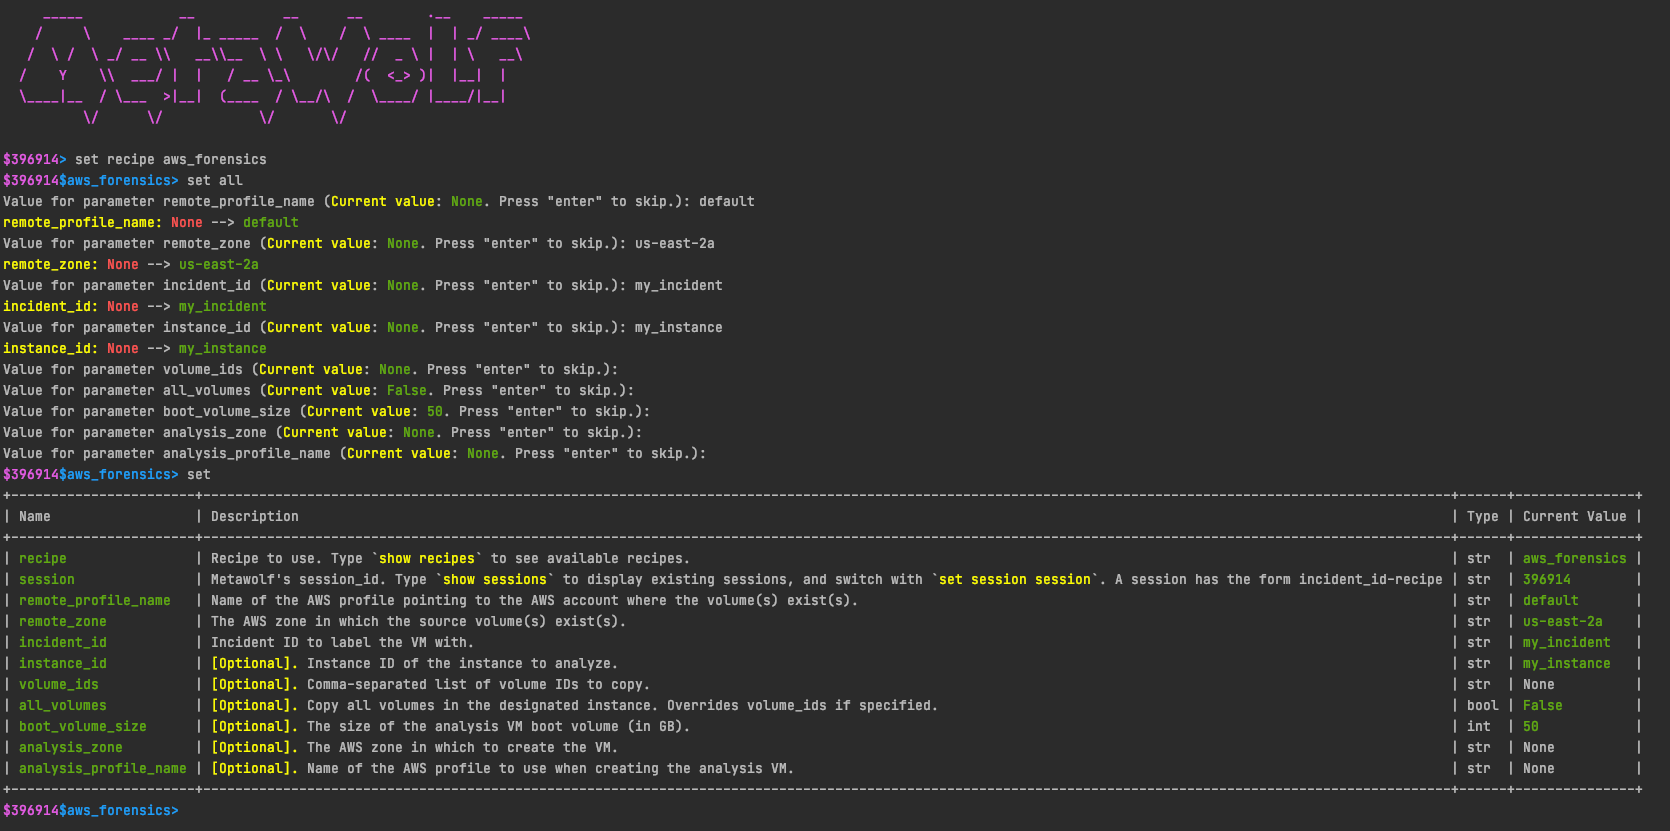
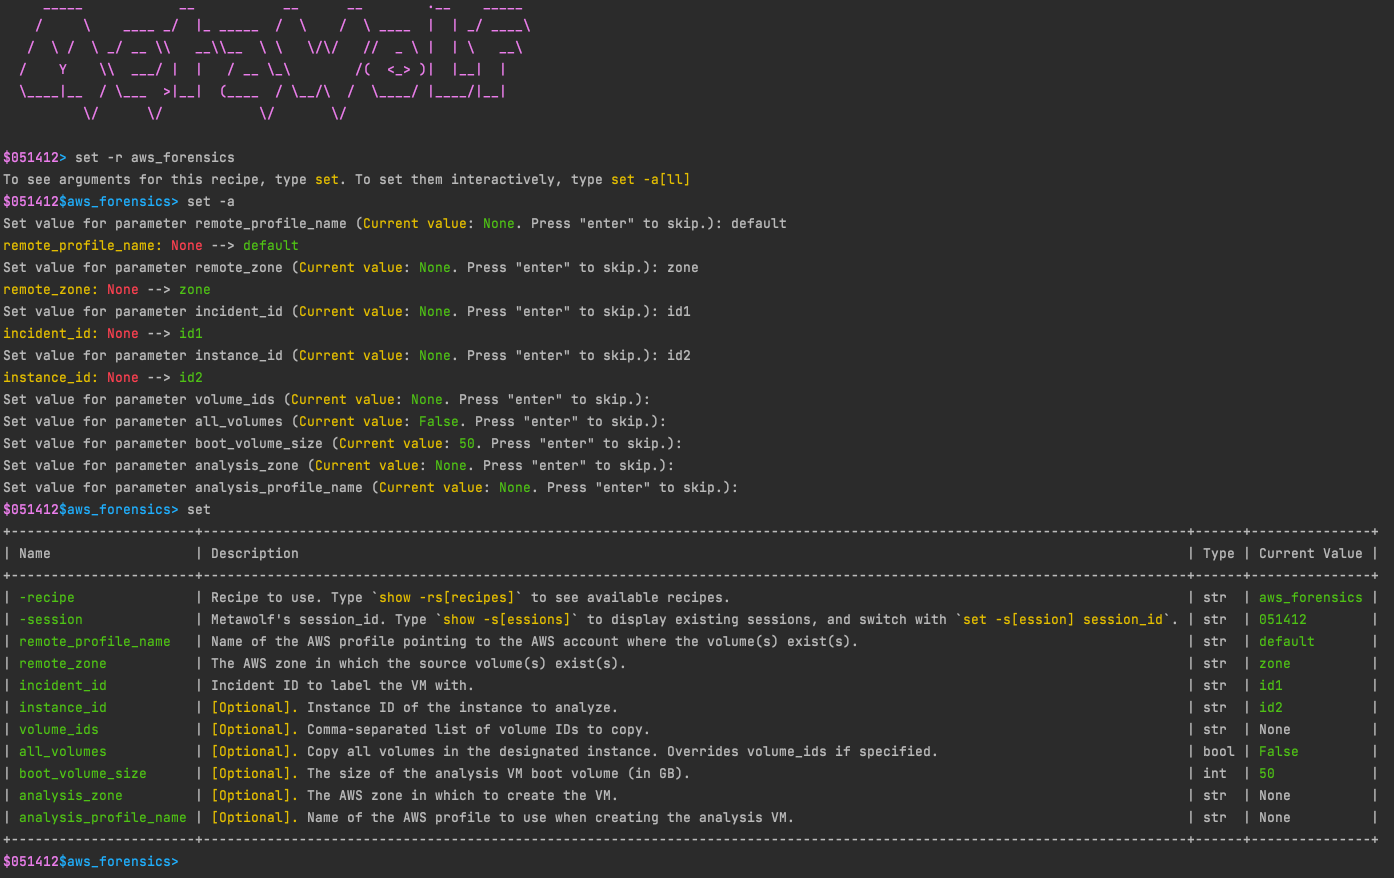
Update metawolf's doc

Changed region(s): [[0.0, 0.1504, 0.9871, 0.9928], [0.0, 0.0, 0.3393, 0.1504], [0.5244, 0.2407, 0.5552, 0.2708]]

diff --git a/dftimewolf/metawolf/metawolf.py b/dftimewolf/metawolf/metawolf.py
@@ -112,7 +112,7 @@ class Metawolf(cmd2.Cmd):
         RECIPE_NAME_IGNORED,
         ARG_RECIPE,
         'Recipe to use. Type `{0:s}` to see available recipes.'.format(
-            self.metawolf_output.Color('show -recipes', output.YELLOW)),
+            self.metawolf_output.Color('show -rs[recipes]', output.YELLOW)),
         str)
     self.AddSessionSettable(self.recipe_settable)
 
@@ -122,8 +122,8 @@ class Metawolf(cmd2.Cmd):
         ARG_SESSION,
         'Metawolf\'s session_id. Type `{0:s}` to display existing '
         'sessions, and switch with `{1:s}`.'.format(
-            self.metawolf_output.Color('show -sessions', output.YELLOW),
-            self.metawolf_output.Color('set -session session_id', output.YELLOW)
+            self.metawolf_output.Color('show -s[essions]', output.YELLOW),
+            self.metawolf_output.Color('set -s[ession] session_id', output.YELLOW)
         ), str)
     self.AddSessionSettable(self.session_id_settable)
 
@@ -230,9 +230,9 @@ class Metawolf(cmd2.Cmd):
     what = args.cmd2_statement.get().split(' ')
     if len(what) != 2 and what[0] not in [SET_ALL, SET_ALL_SC]:
       self.poutput('Usage: `{0:s}` to set a parameter\'s value || `{1:s}` to '
-            'interactively set -all current recipe\'s parameters.'.format(
+            'interactively set -a[ll] current recipe\'s parameters.'.format(
           self.metawolf_output.Color('set arg_name arg_value', output.YELLOW),
-          self.metawolf_output.Color('set -all', output.YELLOW)))
+          self.metawolf_output.Color('set -a[ll]', output.YELLOW)))
       return
 
     if what[0] in [SET_ALL, SET_ALL_SC]:
@@ -309,7 +309,7 @@ class Metawolf(cmd2.Cmd):
       self.poutput('To see arguments for this recipe, type {0:s}. To set them'
                    ' interactively, type {1:s}'.format(
         self.metawolf_output.Color('set', output.YELLOW),
-        self.metawolf_output.Color('set -all', output.YELLOW)))
+        self.metawolf_output.Color('set -a[ll]', output.YELLOW)))
     else:
       # This block happens whenever a recipe's argument / unknown argument
       # is set
@@ -363,7 +363,7 @@ class Metawolf(cmd2.Cmd):
     self.poutput('Running: {0:s}'.format(
         self.metawolf_output.Color(' '.join(cmd), output.YELLOW)))
     self.poutput('To see past and current runs, type {0:s}.'.format(
-      self.metawolf_output.Color('`show running`', output.YELLOW)))
+      self.metawolf_output.Color('`show -rn[running]`', output.YELLOW)))
 
     metawolf_process = output.MetawolfProcess(
         session_id=self.session_id,
@@ -405,8 +405,8 @@ class Metawolf(cmd2.Cmd):
     if not args.cmd2_statement.get():
       self.poutput('Usage of show (autocompletion is enabled.): `{0:s}`'.format(
           self.metawolf_output.Color(
-              'show [-recipes, -recipe recipe_name, -sessions, -running, '
-              '-output output_id].', output.YELLOW)))
+              'show [-rs[recipes], -r[ecipe] recipe_name, -s[essions], -rn[running], '
+              '-o[utput] output_id].', output.YELLOW)))
       return
 
     if args.cmd2_statement.get() in [ARG_RECIPES, ARG_RECIPES_SC]:

diff --git a/docs/metawolf.md b/docs/metawolf.md
@@ -16,9 +16,9 @@ python dftimewolf/metawolf/metawolf.py
 
 `new`: Create a new Metawolf session.
 
-`set session_id xxx`: Set the current session to session `xxx`.
+`set -s[ession] xxx`: Set the current session to session `xxx`.
 
-`show sessions`: Show existing Metawolf sessions, including:
+`show -s[essions]`: Show existing Metawolf sessions, including:
   - Any recipe in use in the session.
   - The status of the latest recipe run for that session.
 
@@ -35,9 +35,9 @@ Currently, the following syntaxes are supported:
 
 `set xxx yyy`: Set parameter `xxx` with value `yyy`. This only works if `xxx` is a settable parameter (i.e. if it is displayed in the output of the `set` command).
 
-`set recipe xxx`: Set the current recipe to recipe `xxx`.
+`set -r[ecipe] xxx`: Set the current recipe to recipe `xxx`.
 
-`set all`: If a recipe is set, `set all` loops through the recipe's parameters and prompts you to enter a value for each parameter. Inputs are verified against the expected parameter's type.
+`set -a[ll]`: If a recipe is set, `set -a` loops through the recipe's parameters and prompts you to enter a value for each parameter. Inputs are verified against the expected parameter's type.
 
 ![metawolf_setall](./_static/metawolf_setall.png)
 
@@ -53,7 +53,7 @@ Once a recipe is loaded and its parameters set, the following actions are availb
 
 To monitor a running recipe:
 
-`show running`: Show various information about running recipes. Available information:
+`show -rn[-running]`: Show various information about running recipes. Available information:
   - `session_id`: The session ID this recipe run belongs to.
   - `command_id`: A command identifier for the recipe. This is mainly usefull to e.g. `kill` a recipe run.
   - `timestamp`: Timestamp at which the recipe was run.
@@ -61,11 +61,11 @@ To monitor a running recipe:
   - `status`: The status of the recipe run. Can be one of `[Running, Completed, Failed, Interrupted]`.
   - `output_id`: A simple identifier linking a recipe run to its output. This is used to display the current output of the recipe run.
 
-`show output output_id`: Display the current output of the recipe run.
+`show -o[utput] output_id`: Display the current output of the recipe run.
 
-`show recipes`: Show DFTimewolf available recipes.
+`show -rs[-recipes]`: Show DFTimewolf available recipes.
 
-`show recipe recipe_name`: Show details about a particular recipe.
+`show -r[ecipe] recipe_name`: Show details about a particular recipe.
 
 ![metawolf_run](./_static/metawolf_run.png)
 
